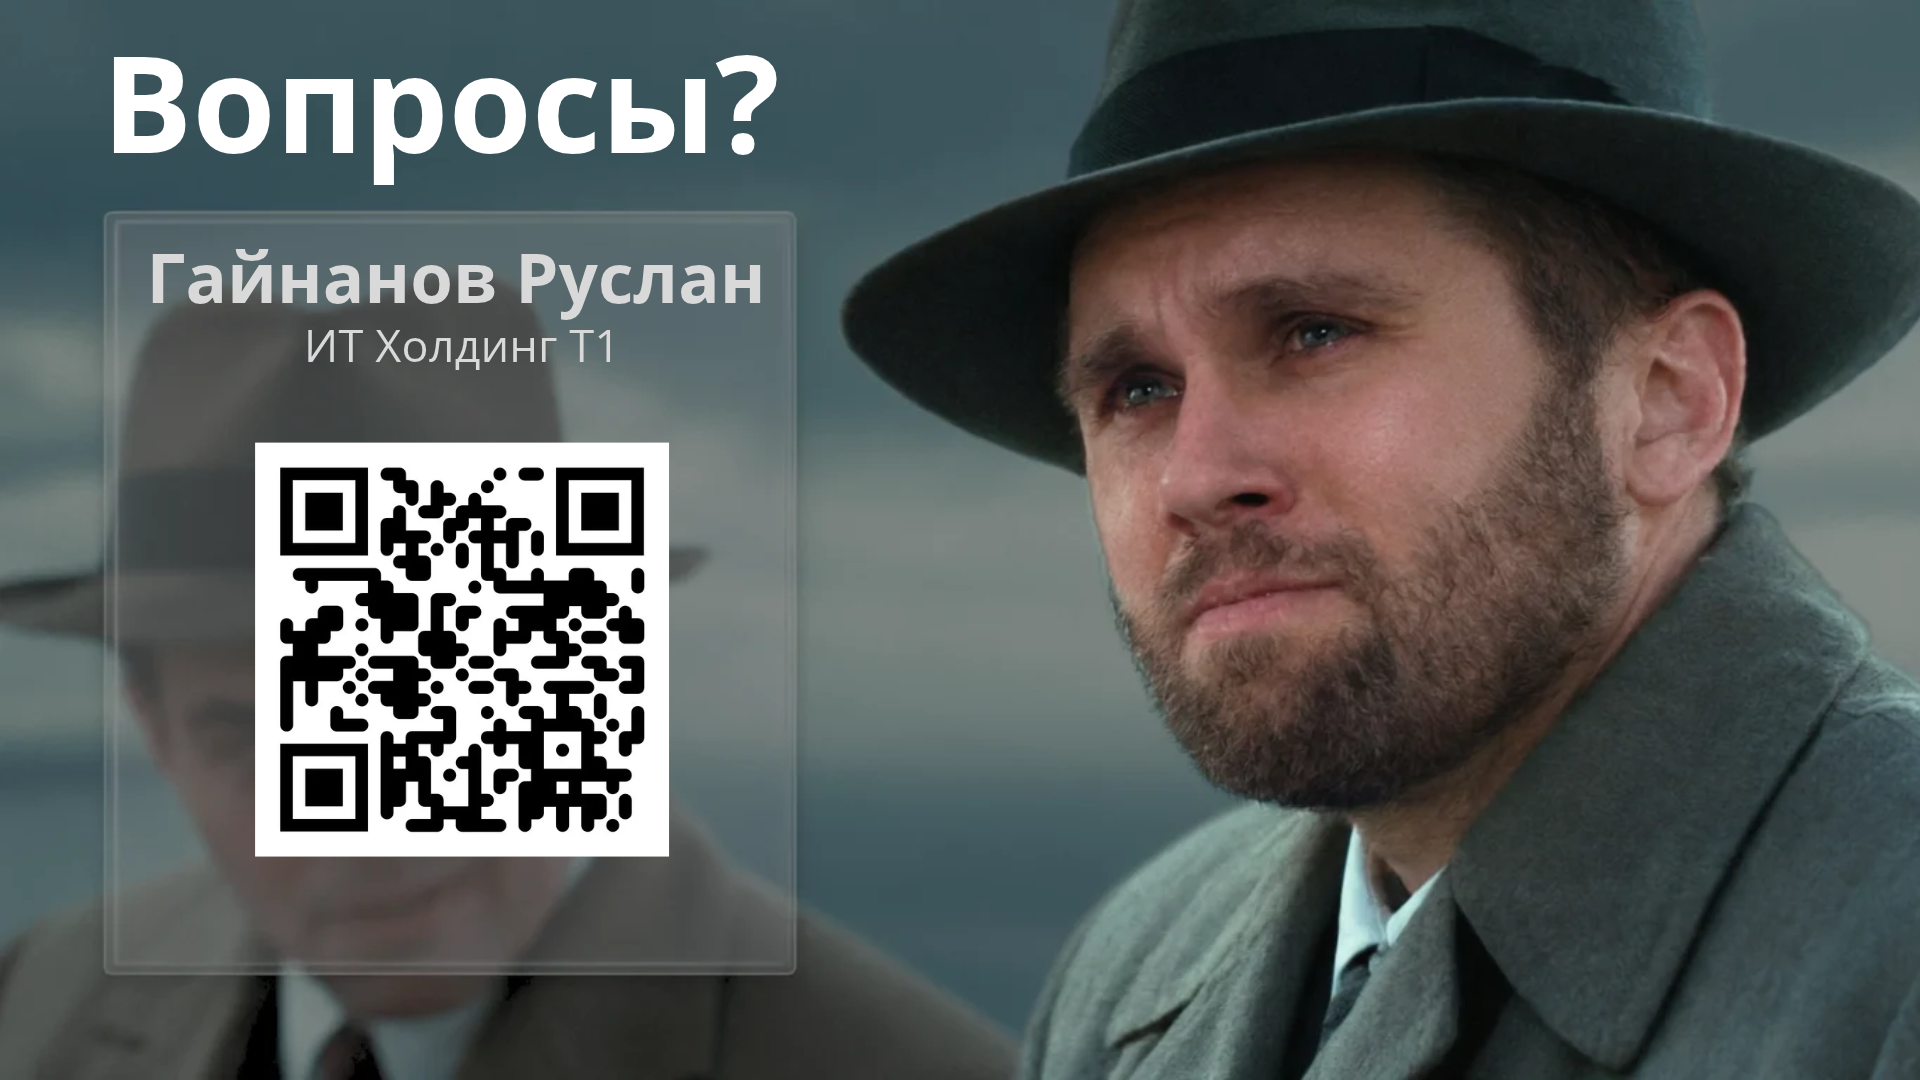
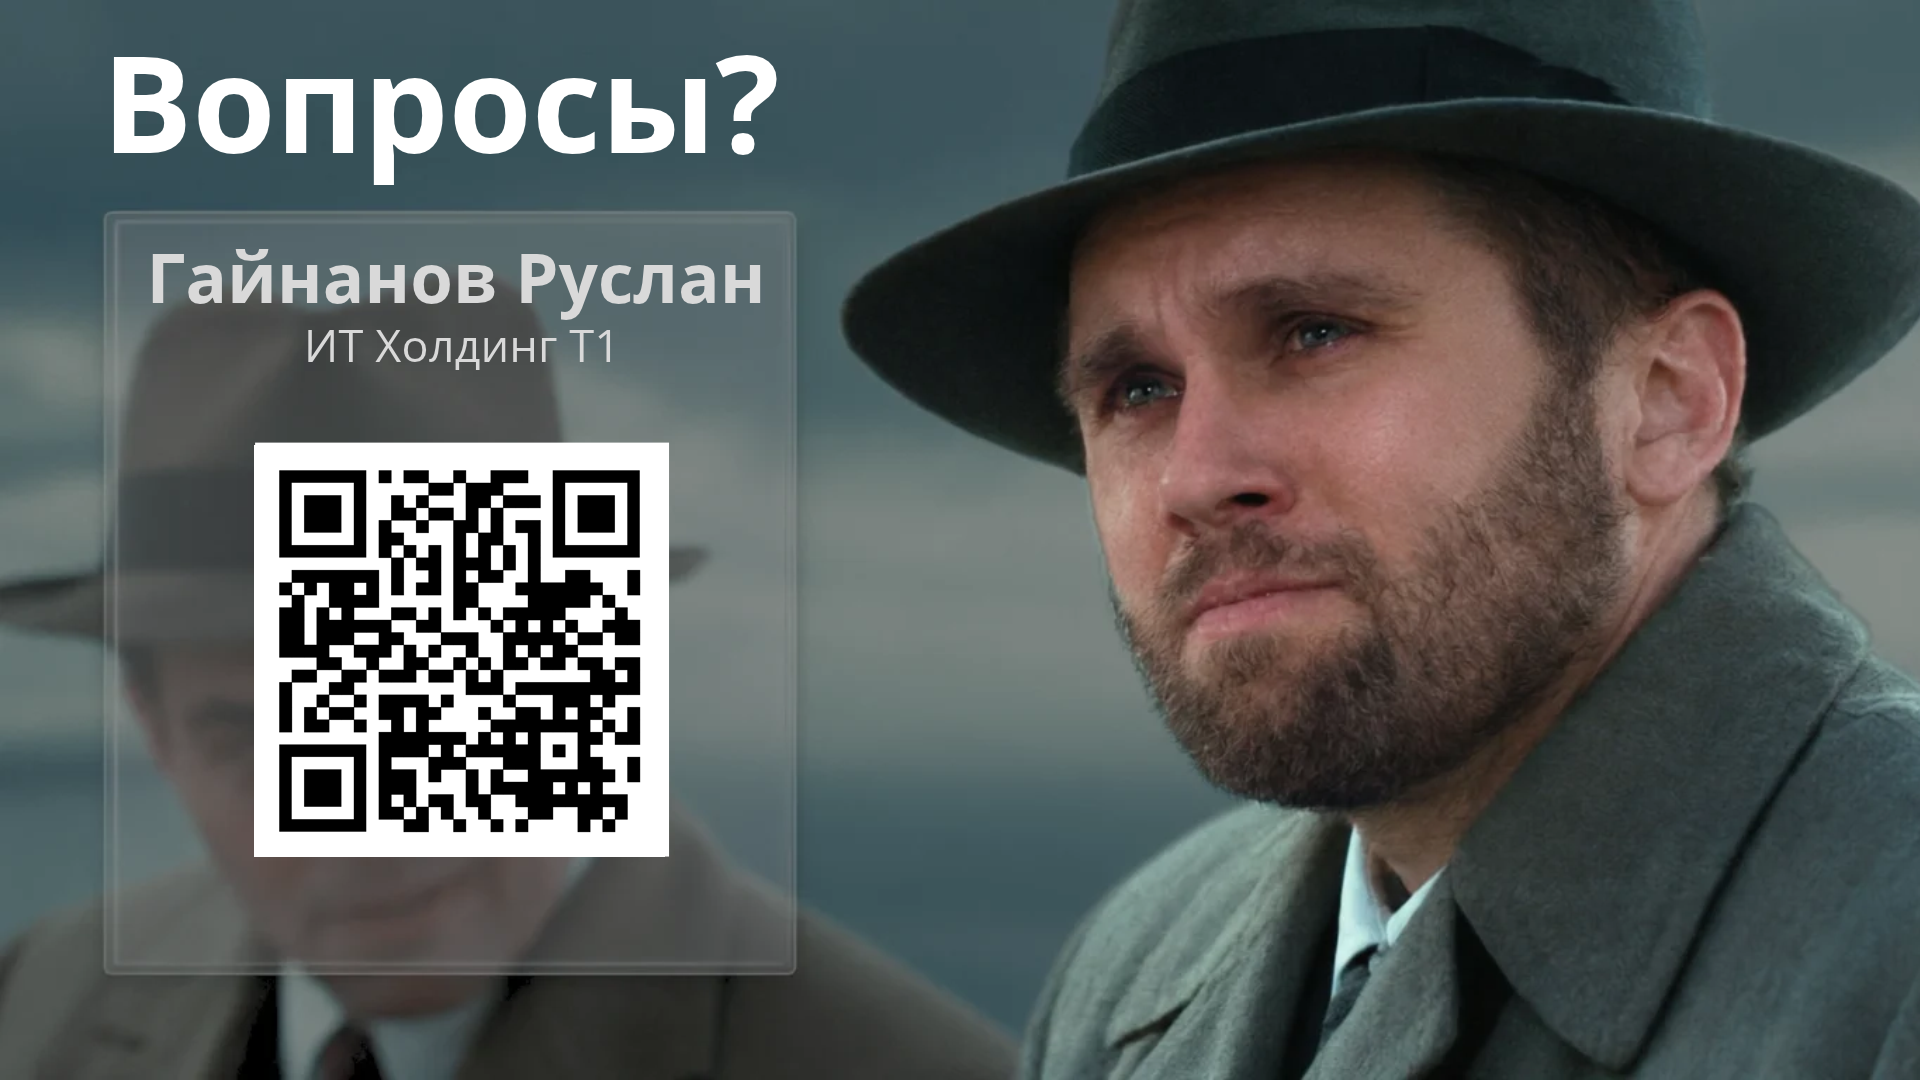
update deploy, qr

Changed region(s): [[0.125, 0.4278, 0.3438, 0.7944]]

diff --git a/documents/slides.md b/documents/slides.md
@@ -728,10 +728,10 @@ title: Спасибо за внимание
 <div class="t1-card" style="position: relative;
                             background: rgba(255, 255, 255, 0.0);">
   <h2 class="font-bold">
-    <a href="http://centicore-devops.gainanov.pro/"
+    <a href="https://centi-conf.gainanov.pro/"
        target="_blank"
        style="position: absolute; top: 400px; left: 65px;">
-      centicore-devops.gainanov.pro
+      centi-conf.gainanov.pro
     </a>
   </h2>
 </div>
